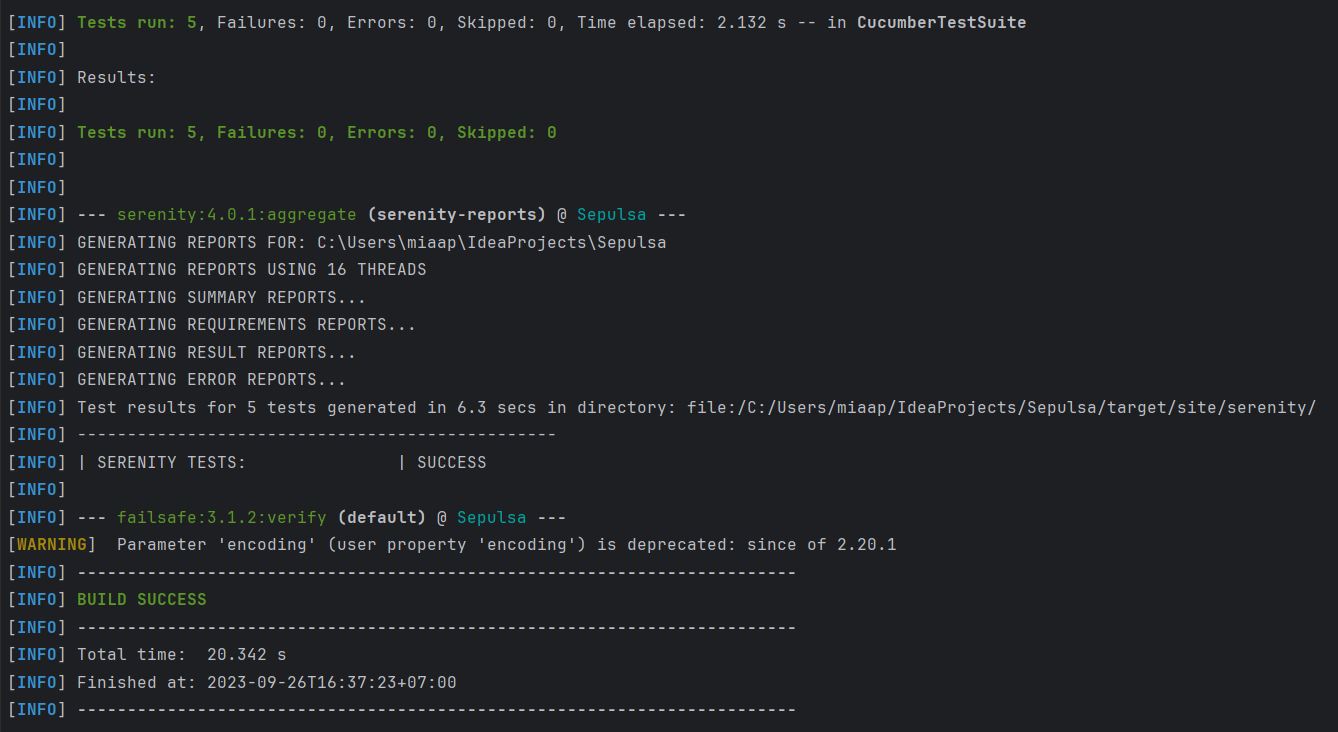
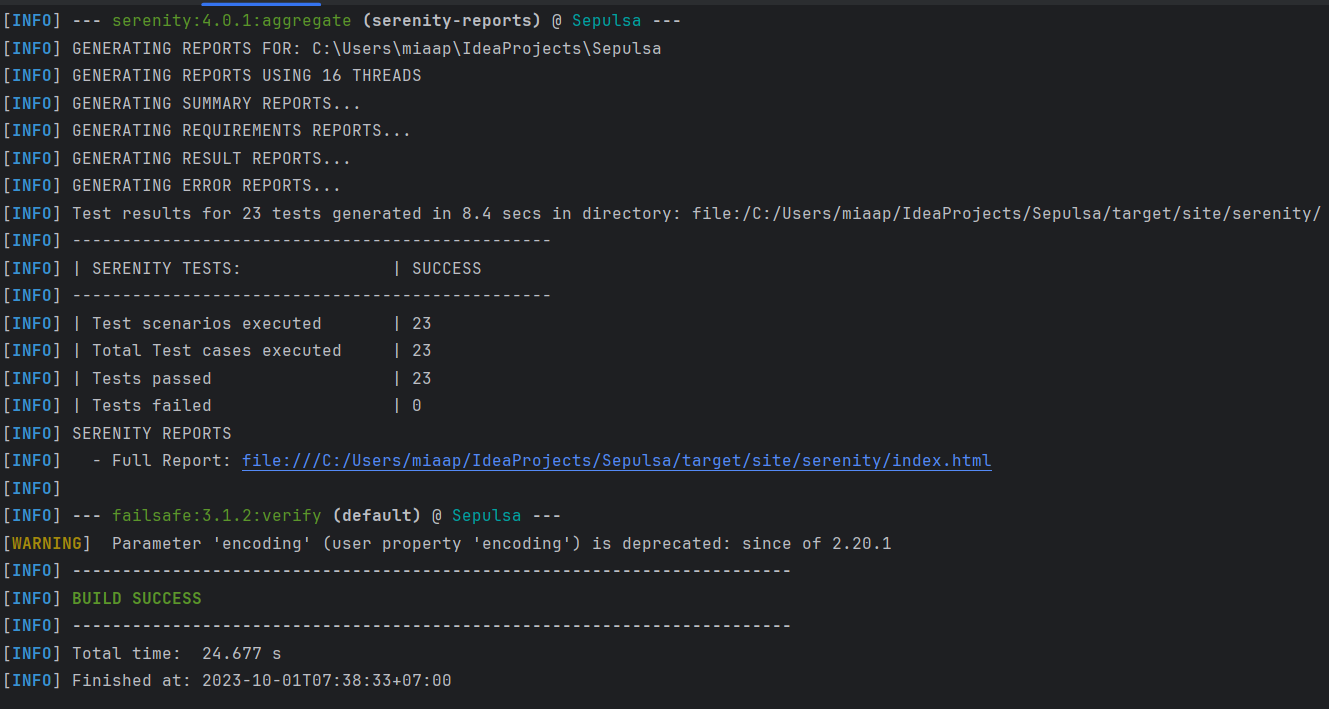
Tugas 16: Push Update Praktikum Prioritas 2

diff --git a/16_Behaviour_Driven_Develoment/praktikum/Sepulsa/src/test/java/starter/stepdefinistions/ProductSteps.java b/16_Behaviour_Driven_Develoment/praktikum/Sepulsa/src/test/java/starter/stepdefinistions/ProductSteps.java
@@ -1,4 +1,120 @@
 package starter.stepdefinistions;
 
+import io.cucumber.java.en.And;
+import io.cucumber.java.en.Given;
+import io.cucumber.java.en.Then;
+import io.cucumber.java.en.When;
+
 public class ProductSteps {
+    @Given("I am on the telecommunication tab")
+    public void onTheTelecommunicationTab() {
+    }
+    @When("I choose data package product")
+    public void choosePackageProduct() {
+    }
+    @And("I enter a valid phone number")
+    public void enterValidPhoneNumber() {
+    }
+    @And("I tap the text link 'See More'")
+    public void tapTextLink() {
+    }
+    @And("I tap close on the pop up")
+    public void tapClose() {
+    }
+    @Then("I see available details data packages")
+    public void seeAvailableDetails() {
+    }
+    @Given("I am on the bill paying tab")
+    public void onTheBllPayingTab() {
+    }
+    @When("I select a PLN electricity product")
+    public void selectPLNElectricity() {
+    }
+    @And("I choose 1 type of electricity meter Prepaid or Postpaid")
+    public void chooseTypeElectricityMeter(){
+    }
+    @And("I input a valid PLN ID meter number")
+    public void inputValidMeterNumber(){
+    }
+    @And("I tap continue button")
+    public void tapContinueButton(){
+    }
+    @Then("I users are redirected to the payment page")
+    public void successResirectedtoPayment(){
+    }
+    @And("I see active continue button")
+    public void seeActiveContinueButton(){
+    }
+    @And("I see 2 types of PLN electricity meter forms")
+    public void seeTypesofMeterPLN() {
+    }
+    @Given("I am on the buy voucher tab")
+    public void onTheBuyVoucherTab(){
+    }
+    @When("I select a game voucher product")
+    public void selectGameVoucher(){
+    }
+    @And("I select 1 purchase item from one of the voucher or topup tabs")
+    public void purchaseItem(){
+    }
+    @And("I tap voucher nominal")
+    public void tapVoucherNominal(){
+    }
+    @Given("I am on the finance tab")
+    public void onTheFinanceTab(){
+    }
+    @When("I choose an emoney product")
+    public void chooseEmoneyProduct(){
+    }
+    @And("I select 1 purchase item")
+    public void selectOneItem(){
+    }
+    @And("I tap on the voucher nominal")
+    public void tapNominalVoucher(){
+    }
+    @Given("I am on the social funds tab")
+    public void onTheSocialFundsTab(){
+    }
+    @When("I choose a sepulsa berkah product")
+    public void chooseSepulsaBerkahProduct(){
+    }
+    @And("I choose 1 donation item")
+    public void chooseOneDonaionItem(){
+    }
+    @And("I enter a valid donation form")
+    public void enterValidDonation(){
+    }
+    @And("I tap the 'continue' button")
+    public void tapContinue(){
+    }
+    @And("I tap the confirmation tick \"I have read the intention\"")
+    public void tapConfirmationTick(){
+    }
+    @And("I tap the 'continue' button the confirmation form")
+    public void tapButtonContinue(){
+    }
+    @Then("I was directed to confirm the total payment details")
+    public void SuccessRedirectDetailsPayment(){
+    }
+    @When("I select a data package product")
+    public void selectDataPackageProduct(){
+    }
+    @And("I enter an invalid phone number")
+    public void enterInvalidPhoneNumber(){
+    }
+    @Then("I make sure the process cannot continue")
+    public void cannotProcessContinue(){
+    }
+    @And("I make sure the message appears \"The cellphone number is overdone. Maximum 13 digits, OK?\"")
+    public void seeMessageErrorAppears(){
+    }
+    @Given("I am on the bill paymnet tab")
+    public void onTheBillPaymentTab(){
+    }
+    @And("I input an invalid PLN ID meter number")
+    public void inputInvalidMeterNumber(){
+    }
+    @And("I see appears message error")
+    public void seeAppearsMessageError(){
+    }
 }

diff --git a/16_Behaviour_Driven_Develoment/praktikum/Sepulsa/src/test/java/starter/stepdefinistions/PaymentMethodSteps.java b/16_Behaviour_Driven_Develoment/praktikum/Sepulsa/src/test/java/starter/stepdefinistions/PaymentMethodSteps.java
@@ -1,4 +1,68 @@
 package starter.stepdefinistions;
 
+import io.cucumber.java.en.And;
+import io.cucumber.java.en.Given;
+import io.cucumber.java.en.Then;
+import io.cucumber.java.en.When;
+
 public class PaymentMethodSteps {
+    @Given("I on the payment page and has selected the product")
+    public void onThePaymentPage() {
+    }
+    @When("I enter an email address")
+    public void enterEmailAddress() {
+    }
+    @And("I make sure the phone number is correct")
+    public void correctPhoneNumber() {
+    }
+    @And("I select the Gopay payment method")
+    public void gopayPaymentMethod() {
+    }
+    @And("I tap the Pay Now button")
+    public void tapButtonPayNow() {
+    }
+    @And("I does not make any payment for more than 15 minutes")
+    public void doesntMakeAnyPayment() {
+    }
+    @Then("Then I make sure the transaction fails and the message \"Page Not Found\" appears on Sepulsa.com")
+    public void pageNotFound() {
+    }
+    @And("I make sure the transaction goes to the failed transaction history page")
+    public void failedTransactionHistoryPage() {
+    }
+    @And("I get a failed transaction message from email, transaction details regarding what product the user purchased")
+    public void getFailedTransactionMessage() {
+    }
+    @And("I select the Dana payment method")
+    public void danaPaymentMethod() {
+    }
+    @And("I select the Kredivo payment method")
+    public void kredivoPaymentMethod() {
+    }
+    @And("I select the ShopeePay payment method")
+    public void shopeepayPaymentMethod() {
+    }
+    @And("I select the Virgo payment method")
+    public void virgoPaymentMethod() {
+    }
+    @And("I complete the payment on the payment page")
+    public void completePayment() {
+    }
+    @Then("I successfully completed the product payment")
+    public void successfullyCompletedProduct() {
+    }
+    @And("I make sure Gopay balance is deducted according to price")
+    public void gopayBalanceisDeducted() {
+    }
+    @And("I managed to get payment receipt from email, receipt details regarding what product the user purchased")
+    public void getPaymentReceipt() {
+    }
+    @And("I make sure Dana balance is deducted according to price")
+    public void danaBalanceisDeducted() {
+    }
+    @And("I make sure ShopeePay balance is deducted according to price")
+    public void shopeepayBalanceisDeducted() {
+    }
+
+
 }
